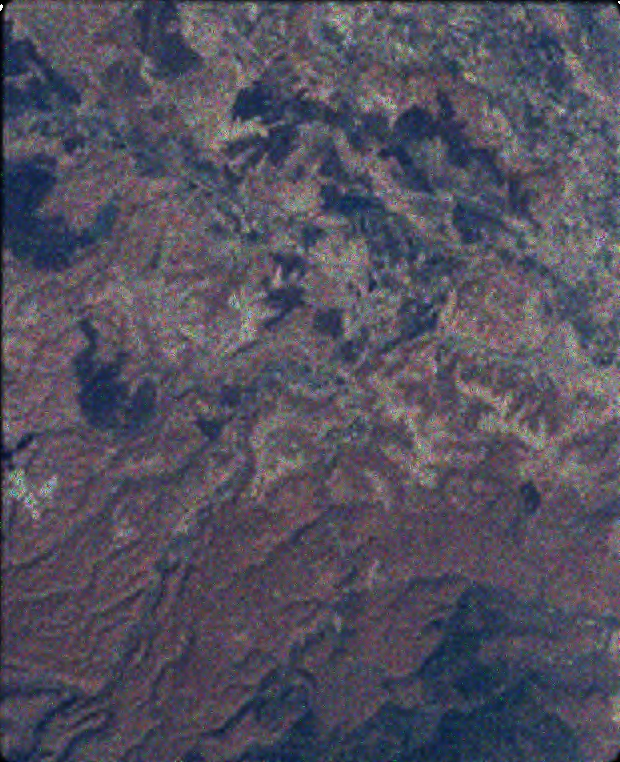
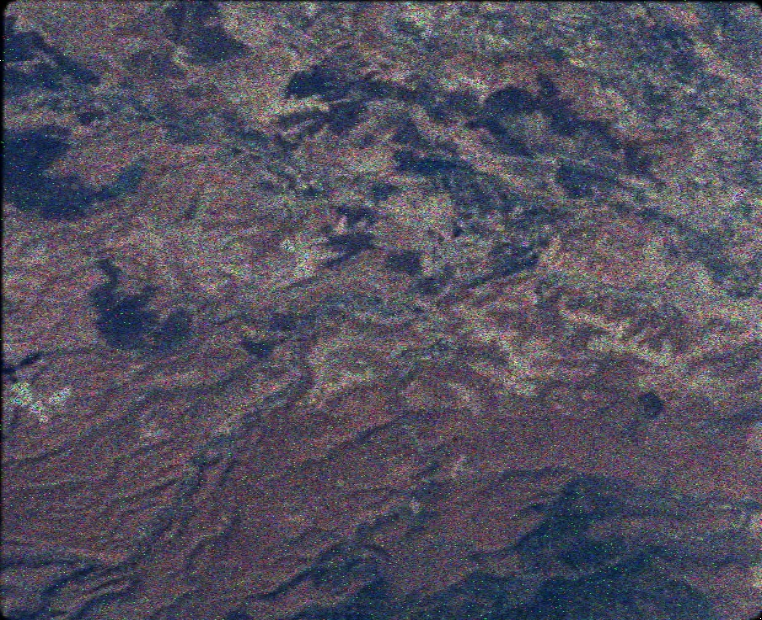
chnages

diff --git a/main.py b/main.py
@@ -4,7 +4,7 @@ import numpy as np
 import pywt
 from wavelet_thresholding import _wavelet_threshold
 
-def main(path,wavelet='db4',method='BiasShrink',levels=1,sigma=None):
+def main(path,wavelet='db4',method='BiasShrink',levels=1,sigma=None,mode = 'soft'):
     # Load the noisy image
     img = cv2.imread(path)
     
@@ -19,9 +19,9 @@ def main(path,wavelet='db4',method='BiasShrink',levels=1,sigma=None):
     # Split the channels
     y, cr, cb = cv2.split(img_ycrcb)
     # apply wavelet threshold on each channel seperately
-    y_denoised  = _wavelet_threshold(image=y, wavelet=wavelet,method=method,wavelet_levels=levels)
-    cr_denoised = _wavelet_threshold(image=cr,wavelet=wavelet,method=method,wavelet_levels=levels)
-    cb_denoised = _wavelet_threshold(image=cb,wavelet=wavelet,method=method,wavelet_levels=levels)
+    y_denoised  = _wavelet_threshold(image=y, wavelet=wavelet,method=method,wavelet_levels=levels,mode=mode)
+    cr_denoised = _wavelet_threshold(image=cr,wavelet=wavelet,method=method,wavelet_levels=levels,mode=mode)
+    cb_denoised = _wavelet_threshold(image=cb,wavelet=wavelet,method=method,wavelet_levels=levels,mode=mode)
     
     #recontruct the image in YCrcCb color space
     img_denoised_ycrcb = np.zeros_like(img)
